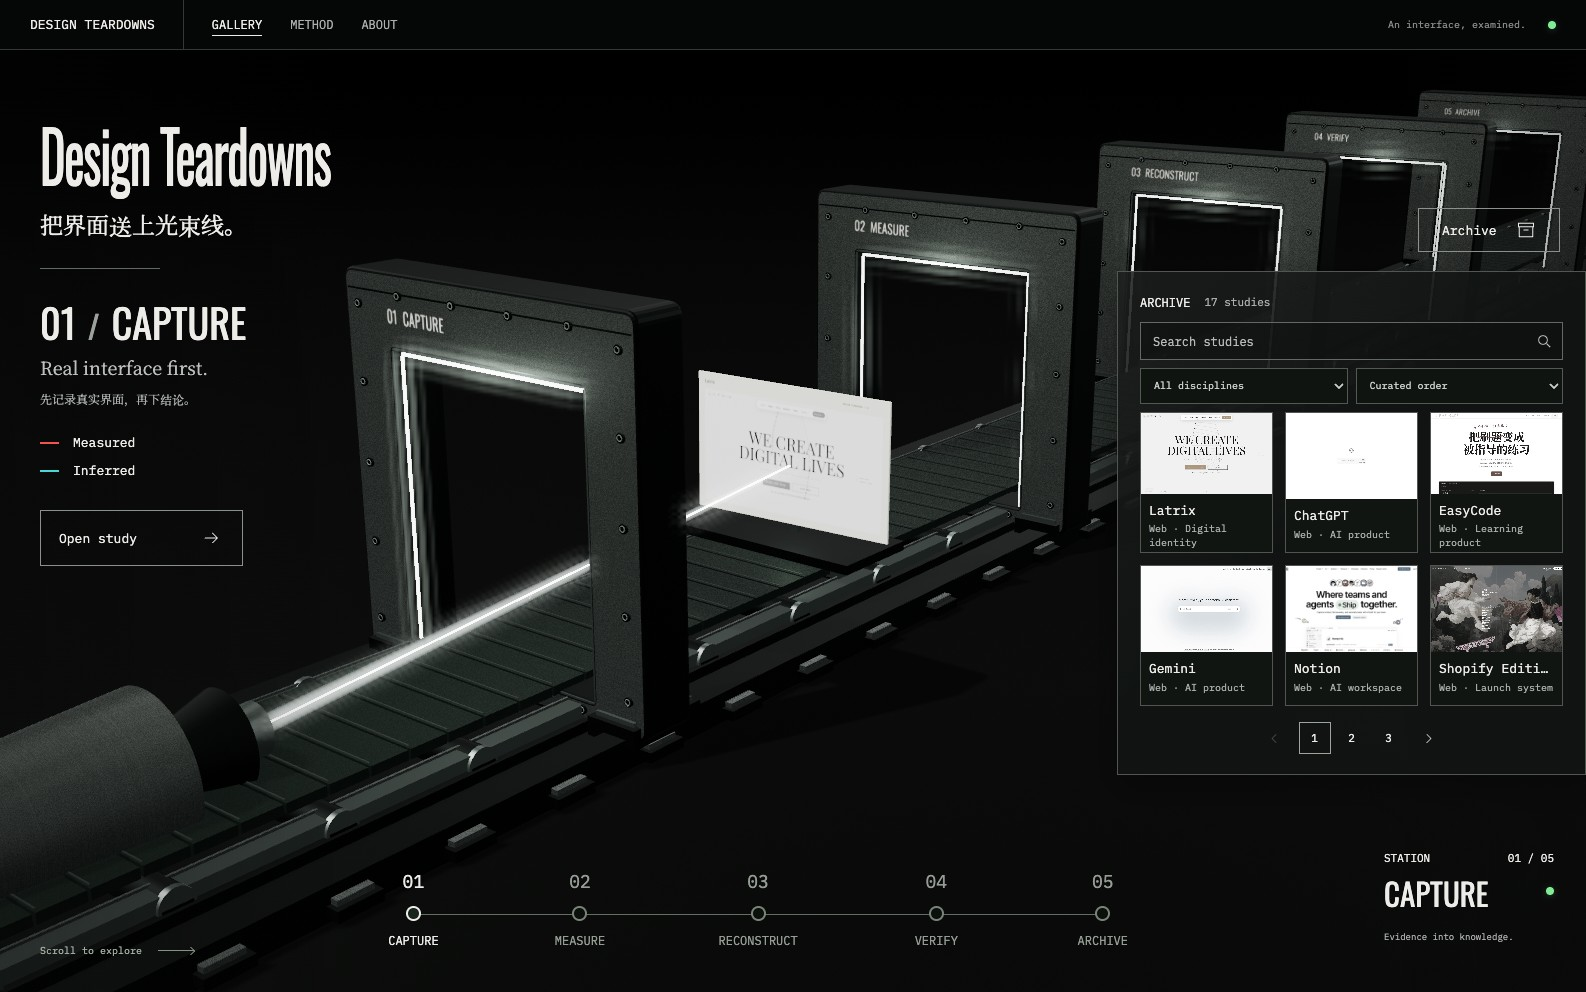
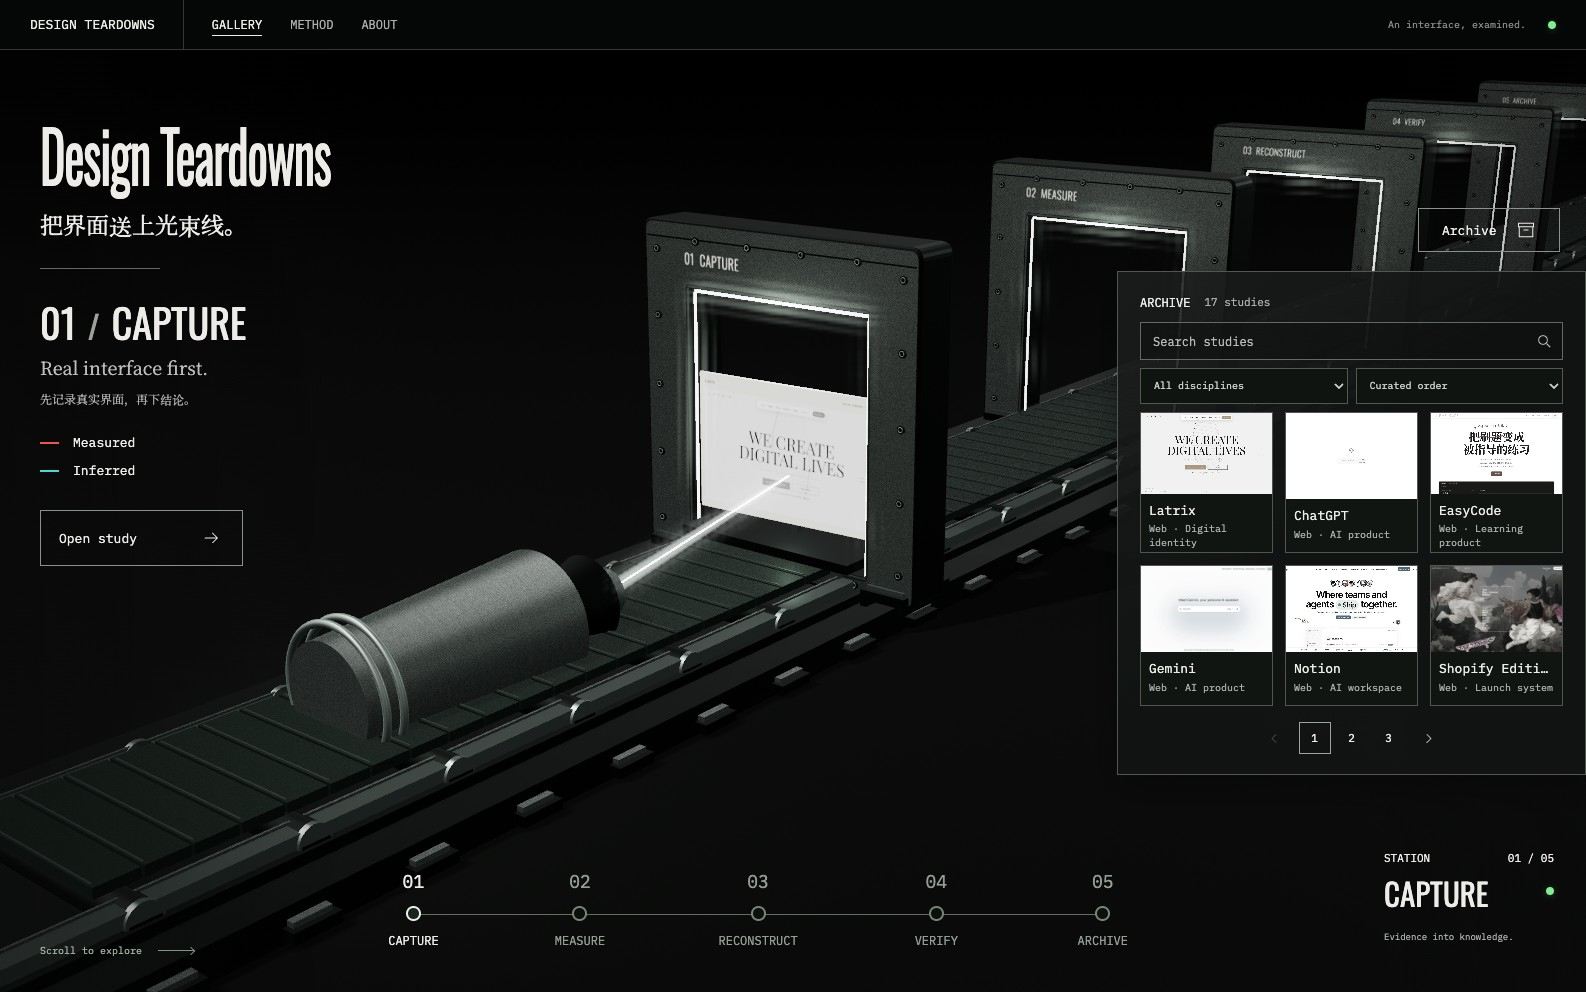
Align specimen stops with actual gantry centres

diff --git a/teardowns/_gallery/beamline-3d.js b/teardowns/_gallery/beamline-3d.js
@@ -252,6 +252,9 @@
         bevelSegments: 3,
         curveSegments: 6,
       });
+      group.userData.dock = new T.Object3D();
+      group.userData.dock.position.z = geometry.parameters.options.depth / 2;
+      group.add(group.userData.dock);
       const body = new T.Mesh(geometry, [this.metal, this.dark]);
       body.castShadow = body.receiveShadow = true;
       group.add(body);
@@ -950,9 +953,13 @@
       const raw = p * 4,
         index = Math.min(3, Math.floor(raw)),
         t = raw - index;
-      const stops = [-3.5, -14.5, -25.5, -36.5, -47.5];
+      // Dock at the centre of the actual gantry depth, never a separate stop list.
+      const stops = this.gates.map(
+        (gate) => gate.position.z + gate.userData.dock.position.z,
+      );
       this.carriage.position.z = mix(stops[index], stops[index + 1], t);
       const travel = this.carriage.position.z - stops[0];
+      const cameraTravel = this.carriage.position.z + 3.5;
       this.driveConveyor(travel);
       this.specimen.rotation.y =
         0.04939 + Math.sin((p - 0.75) * Math.PI * 2) * 0.035;
@@ -982,12 +989,13 @@
         this.camera.position.set(
           this.phone ? 13.6 : 16,
           8.9,
-          (this.phone ? 17.9 : 20.5) + travel * (this.phone ? 0.83 : 0.94),
+          (this.phone ? 17.9 : 20.5) +
+            cameraTravel * (this.phone ? 0.83 : 0.94),
         );
         this.camera.lookAt(
           this.phone ? -0.4 : -0.6,
           this.phone ? -0.5 : -1.3,
-          -3.5 + travel * (this.phone ? 0.83 : 0.94),
+          -3.5 + cameraTravel * (this.phone ? 0.83 : 0.94),
         );
         this.world.scale.setScalar(this.phone ? 0.83 : 0.94);
         this.world.position.set(
@@ -1001,9 +1009,9 @@
         this.camera.position.set(
           17.289 + this.pointer.x * 0.09 * motion,
           9 + this.pointer.y * 0.045 * motion,
-          18.3325 + travel,
+          18.3325 + cameraTravel,
         );
-        this.camera.lookAt(-0.72, 0, -4.65 + travel);
+        this.camera.lookAt(-0.72, 0, -4.65 + cameraTravel);
       }
       this.scene.updateMatrixWorld(true);
       this.camera.updateMatrixWorld(true);
@@ -1099,7 +1107,13 @@
         }),
         calls: this.sceneStats?.calls,
         triangles: this.sceneStats?.triangles,
-        beltPhase: this.carriage.position.z + 3.5,
+        beltPhase:
+          this.carriage.position.z -
+          (this.gates[0].position.z + this.gates[0].userData.dock.position.z),
+        sampleWorldZ: this.specimenBacking.getWorldPosition(new T.Vector3()).z,
+        gantryWorldZ: this.gates.map(
+          (gate) => gate.userData.dock.getWorldPosition(new T.Vector3()).z,
+        ),
         rollerAngle: this.rollers[0].rotation.x,
         canvas: { width: this.width, height: this.height },
       };

diff --git a/DESIGN.md b/DESIGN.md
@@ -39,7 +39,7 @@
 
 原生滚动距离归一化后只更新 `targetProgress`；站点链接把目标设为目的站，并应用 `navigation.maxSpeed` 限速。唯一的运动控制器维护 `progress` 与 `velocity`，在 `tick()` 中以秒为单位、用 `response = 38` 的临界阻尼解析式跟随目标，并处理方向反转和到站收敛。`setStage(progress)` 同时更新读数、导航状态和三维场景，通过 `round(progress * 4)` 确定逻辑站。场景按该进度插值，不再叠加另一条行程缓动；鼠标视差的独立阻尼不参与台车行程。
 
-五个工位等距固定，台车按五个停靠位置在 z 方向插值，总行程为 44 个世界单位。`travel = carriageZ - stops[0]` 同时驱动 124 节实例化输送带；节距为 0.62，带节循环回到轨道另一端。滚轮角度按 `travel / 0.23` 更新，反向行程会反转。桌面相机的位置和观察目标同步加上 travel；紧凑布局按 world scale 换算跟随距离。样本和输送带由同一位移推进，没有另一个独立计时动画。
+五个工位等距固定，停靠点直接由各门架的实际挤出几何中心生成，台车按这五个位置在 z 方向插值，总行程为 44 个世界单位。`travel = carriageZ - stops[0]` 同时驱动 124 节实例化输送带；节距为 0.62，带节循环回到轨道另一端。滚轮角度按 `travel / 0.23` 更新，反向行程会反转。相机使用相对样本的固定构图偏移跟随，校准停靠点后仍保持样本在画面中的位置；紧凑布局按 world scale 换算跟随距离。样本和输送带由同一位移推进，没有另一个独立计时动画。
 
 样本角度、网格显隐、准星显隐、红青参考层间距及各门架灯光由同一进度决定。灰度样本在纹理生成时已处理，红青参考层是研究方法示意，不计算像素差。
 

diff --git a/README.md b/README.md
@@ -75,7 +75,7 @@ node tools/check-gallery.mjs
 
 ## 验证与交付
 
-本地浏览器检查 **32/32 通过**，馆藏专项检查 **18/18 通过**；已验证五站运动、搜索分页、键盘、横竖屏及真实 WebGL 故障恢复。README 上图来自本次实际运行的页面。命令、实测数据和验证边界见 [验收记录](ACCEPTANCE.md)。本次尚未推送、合并或部署。
+本地浏览器检查 **35/35 通过**，馆藏专项检查 **18/18 通过**；已验证五站运动、搜索分页、键盘、横竖屏及真实 WebGL 故障恢复。README 上图来自本次实际运行的页面。命令、实测数据和验证边界见 [验收记录](ACCEPTANCE.md)。本次尚未推送、合并或部署。
 
 ## 授权
 
